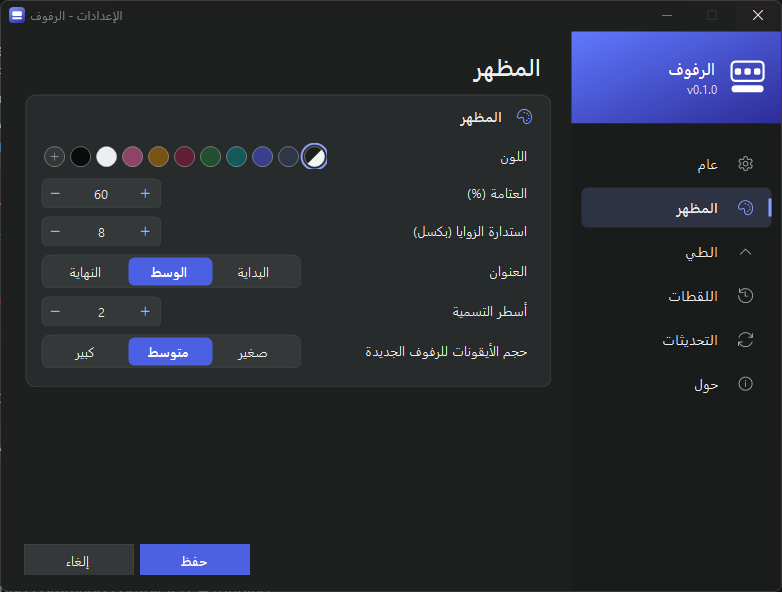
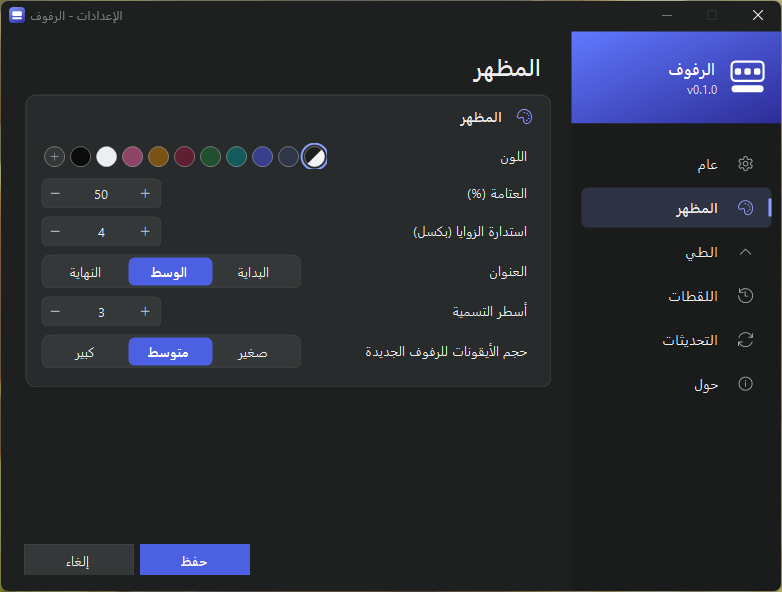
New defaults: 4 px corners, 50% opacity, 3 label lines, open on hover at once

diff --git a/src/Shelves.Core/Model/Settings.cs b/src/Shelves.Core/Model/Settings.cs
@@ -5,21 +5,21 @@ public enum TitleAlign { Left, Center, Right }
 /// <summary>User preferences, saved as JSON beside the layout.</summary>
 public sealed class Settings
 {
-    public const int CurrentVersion = 3;
+    public const int CurrentVersion = 4;
     public int Version { get; set; } = CurrentVersion;
     /// <summary>"en" or "ar"; empty follows Windows.</summary>
     public string Language { get; set; } = "";
     public bool StartWithWindows { get; set; } = true;
     public bool DoubleClickHides { get; set; } = true;
     /// <summary>How solid a shelf's colour is over the blurred wallpaper, 0 (clear glass) to 100 (solid).</summary>
-    public int Opacity { get; set; } = 60;
+    public int Opacity { get; set; } = 50;
     /// <summary>The colour of every shelf ("#RRGGBB"), or empty for the theme's own.</summary>
     public string Tint { get; set; } = "";
-    public int CornerRadius { get; set; } = 8;
+    public int CornerRadius { get; set; } = 4;
     public TitleAlign TitleAlign { get; set; } = TitleAlign.Center;
-    public int LabelLines { get; set; } = 2;
+    public int LabelLines { get; set; } = 3;
     public IconSize DefaultIconSize { get; set; } = IconSize.Medium;
-    public int HoverDelayMs { get; set; } = 150;
+    public int HoverDelayMs { get; set; } = 0;
     public int LeaveDelayMs { get; set; } = 0;
     public bool HoverToPeek { get; set; } = true;
     /// <summary>Animate rolling up and opening. Shelves' own choice, not Windows' animation effects setting.</summary>
@@ -40,6 +40,14 @@ public sealed class Settings
         }
         // Version 3 rolls up the moment the mouse leaves, unless the user chose a delay of their own.
         if (s.Version < 3 && s.LeaveDelayMs is 300 or 500) s.LeaveDelayMs = 0;
+        // Version 4's defaults, for values the user never changed.
+        if (s.Version < 4)
+        {
+            if (s.CornerRadius == 8) s.CornerRadius = 4;
+            if (s.Opacity is 55 or 60) s.Opacity = 50;
+            if (s.LabelLines == 2) s.LabelLines = 3;
+            if (s.HoverDelayMs is 150 or 300) s.HoverDelayMs = 0;
+        }
         s.Tint = Colors.Normalize(s.Tint);
         s.Opacity = Math.Clamp(s.Opacity, 0, 100);
         s.CornerRadius = Math.Clamp(s.CornerRadius, 0, 16);

diff --git a/tests/Shelves.Core.Tests/ModelTests.cs b/tests/Shelves.Core.Tests/ModelTests.cs
@@ -131,9 +131,9 @@ public class ModelTests
     public void Settings_from_version_1_get_the_faster_defaults_unless_changed()
     {
         var old = Settings.Migrate(new Settings { Version = 1, HoverDelayMs = 300, LeaveDelayMs = 500, Opacity = 55 });
-        Assert.Equal(150, old.HoverDelayMs);
+        Assert.Equal(0, old.HoverDelayMs);
         Assert.Equal(0, old.LeaveDelayMs);
-        Assert.Equal(60, old.Opacity);
+        Assert.Equal(50, old.Opacity);
         var mine = Settings.Migrate(new Settings { Version = 1, HoverDelayMs = 700, Opacity = 30 });
         Assert.Equal(700, mine.HoverDelayMs);
         Assert.Equal(30, mine.Opacity);
@@ -172,5 +172,16 @@ public class ModelTests
         Assert.Equal(0, Settings.Migrate(new Settings { Version = 2, LeaveDelayMs = 300 }).LeaveDelayMs);
         Assert.Equal(800, Settings.Migrate(new Settings { Version = 2, LeaveDelayMs = 800 }).LeaveDelayMs);
         Assert.Equal(0, new Settings().LeaveDelayMs);
+    }
+
+    [Fact]
+    public void Version_4_defaults_replace_untouched_values_only()
+    {
+        var d = new Settings();
+        Assert.Equal((4, 50, 3, 0, 0), (d.CornerRadius, d.Opacity, d.LabelLines, d.HoverDelayMs, d.LeaveDelayMs));
+        var old = Settings.Migrate(new Settings { Version = 3, CornerRadius = 8, Opacity = 60, LabelLines = 2, HoverDelayMs = 150 });
+        Assert.Equal((4, 50, 3, 0), (old.CornerRadius, old.Opacity, old.LabelLines, old.HoverDelayMs));
+        var mine = Settings.Migrate(new Settings { Version = 3, CornerRadius = 12, Opacity = 80, LabelLines = 1, HoverDelayMs = 400 });
+        Assert.Equal((12, 80, 1, 400), (mine.CornerRadius, mine.Opacity, mine.LabelLines, mine.HoverDelayMs));
     }
 }
